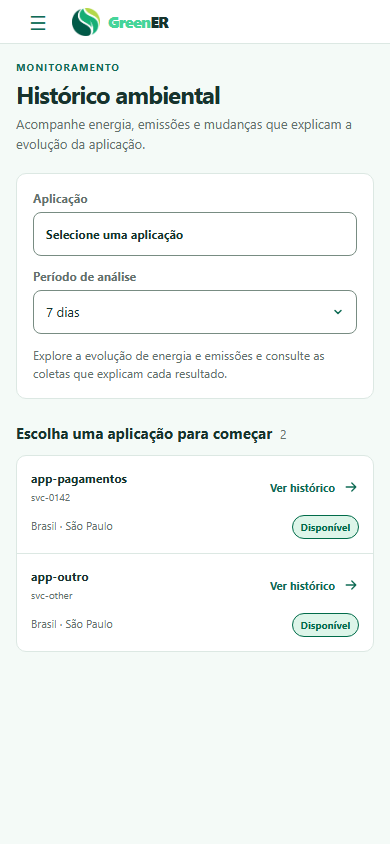
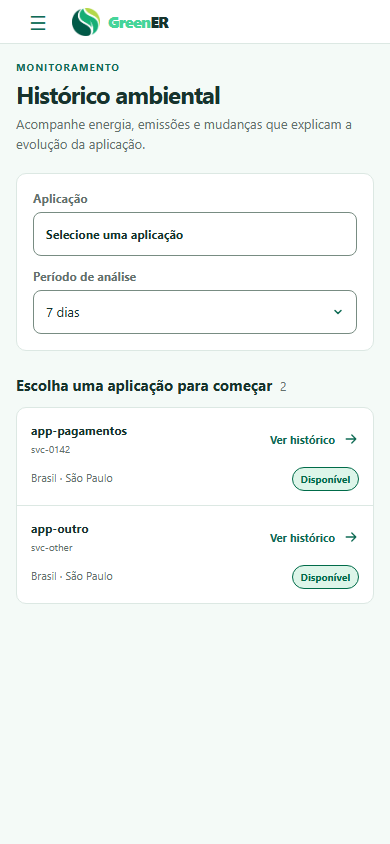
fix(frontend): reduzir texto duplicado nos filtros do histórico

Changed region(s): [[0.0308, 0.4929, 0.9231, 0.7701], [0.0308, 0.4005, 0.8308, 0.4621], [0.8923, 0.4929, 0.9231, 0.5237]]

diff --git a/frontend/src/pages/history/HistoryPage.module.css b/frontend/src/pages/history/HistoryPage.module.css
@@ -4,7 +4,6 @@
 .page > header p:not(:global(.eyebrow)) { margin: 0; color: var(--text-secondary); font-size: 13px; line-height: 1.5; }
 .selector { margin-bottom: 24px; border: 1px solid var(--border-default); border-radius: 10px; padding: 16px; background: var(--surface-card); }
 .controls { display: grid; grid-template-columns: minmax(0, 2fr) minmax(180px, 1fr); align-items: end; gap: 16px; }
-.selector > p { margin: 12px 0 0; color: var(--text-secondary); font-size: 12px; line-height: 1.5; }
 .applicationFilter { display: grid; min-width: 0; gap: 6px; color: var(--text-secondary); font-size: 12px; font-weight: 650; }
 .applicationFilter select { width: 100%; min-height: 44px; border: 1px solid var(--border-control); border-radius: 8px; padding: 8px 12px; color: var(--text-primary); background: var(--surface-card); font: inherit; }
 .applicationFilter select:focus-visible { outline: 3px solid var(--focus-ring); outline-offset: 2px; }

diff --git a/frontend/src/pages/history/HistoryPage.tsx b/frontend/src/pages/history/HistoryPage.tsx
@@ -75,7 +75,6 @@ export function HistoryPage({ navigate }: Readonly<{ navigate: (url: string) => 
           title={tDetail('periodTitle')} invalidMessage={tDetail('periodInvalid')}
           options={periods.map((value) => ({ value, label: tDetail(`periods.${value}`) }))} />
       </div>
-      <p>{t('startDescription')}</p>
     </section>
     {error && hasSnapshot && <RequestFeedback state="error"><p>{tCatalog('stale')}</p><button type="button" onClick={retry}>{tCommon('actions.retry')}</button></RequestFeedback>}
     {applications.length === 0 && <RequestFeedback state="empty"><h2>{tCatalog('emptyTitle')}</h2><p>{tCatalog('empty')}</p></RequestFeedback>}
